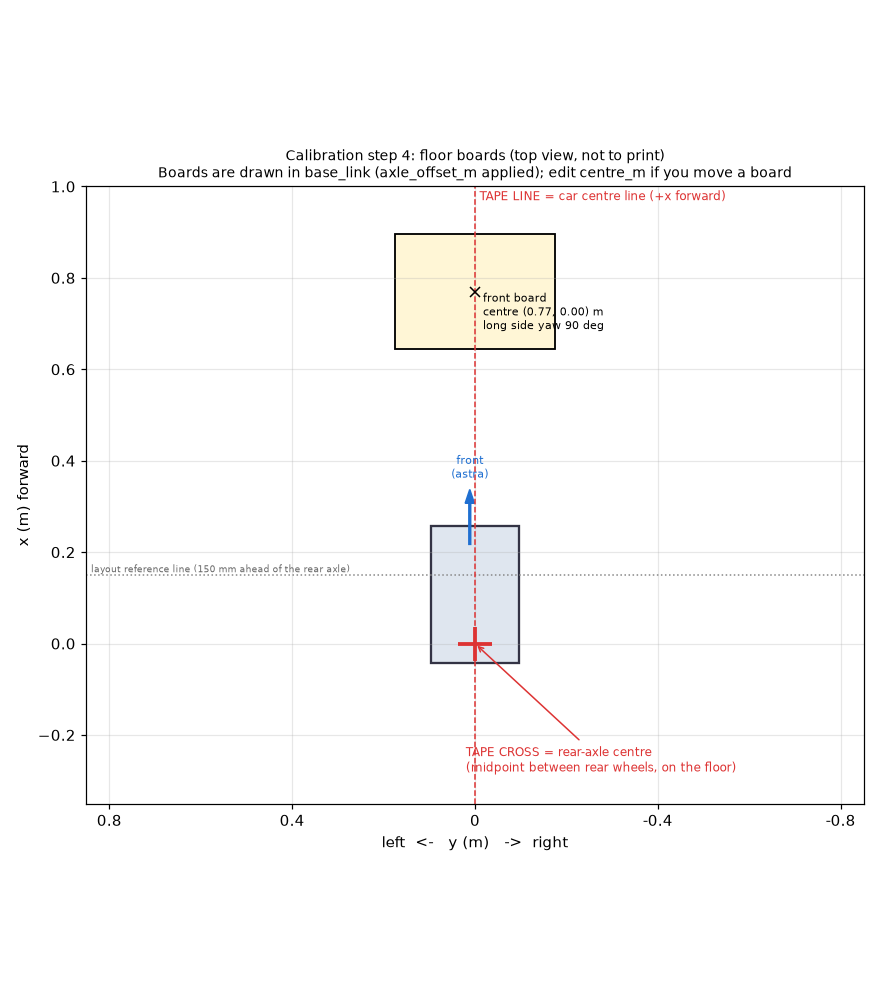
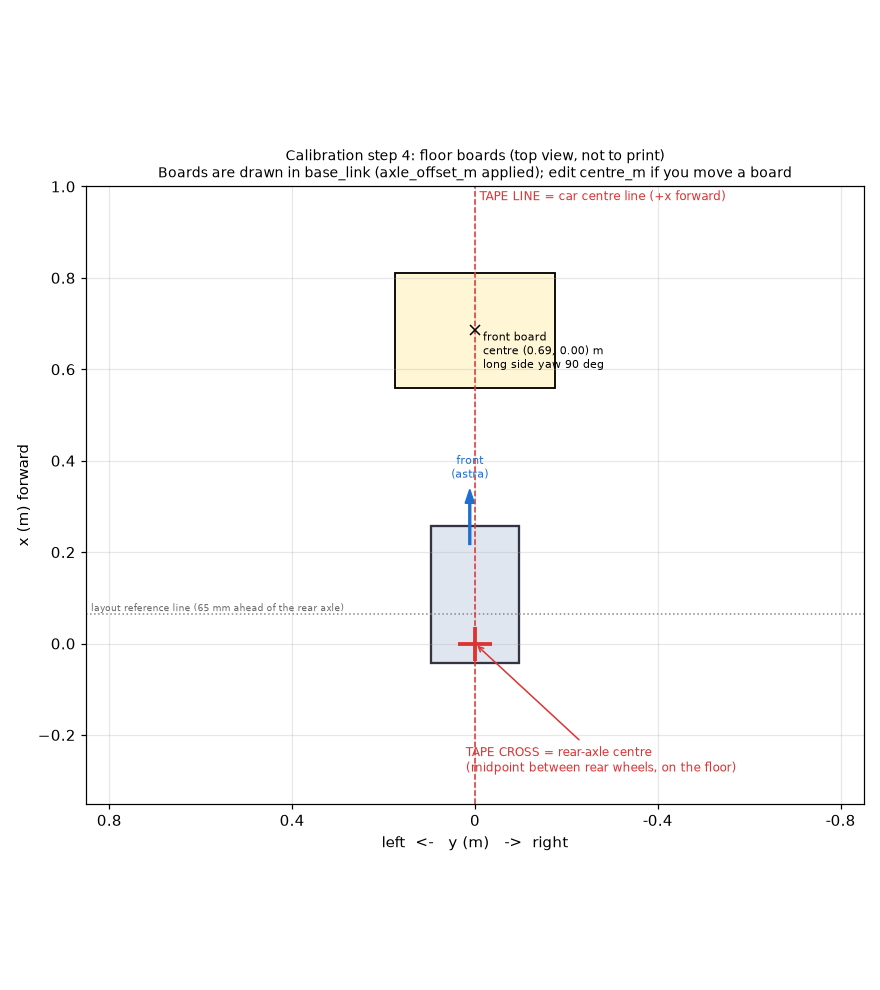
Step 4 axle offset 0.065 (0.150 was not detected); step 6 delete-run buttons
Step 4: target.axle_offset_m 0.150 -> 0.065 (owner moved the car forward on the sheet; front board
base_link x 0.685). Sheet regenerated (470 x 952 mm, 24 in roll), tests/docs/BACKLOG #54 updated.

Step 6: delete_run / delete_all_runs ops (step_imu_odometry) with GUI Delete buttons and a confirm.
The newest run's live correction (ticks_per_meter, odom_reverse_polarity, imu_yaw_scale) is undone
while the live value is still the corrected one; an unsaved step result computed from the deleted
run is dropped (wizard_core invalidate_result). Refused while a measurement runs. BACKLOG #60.

Changed region(s): [[0.4295, 0.2121, 0.675, 0.3939], [0.1227, 0.6061, 0.3989, 0.6364]]

diff --git a/src/carbot_gui/web/tabs_calib.js b/src/carbot_gui/web/tabs_calib.js
@@ -213,6 +213,7 @@ TABS.calstep = {
     /* ---- one delegated click handler for every button on the page */
     el.addEventListener('click', async e => {
       const b = e.target.closest('[data-act]'); if (!b || b.disabled || busy) return;
+      if (b.dataset.confirm && !window.confirm(b.dataset.confirm)) return;
       let arg = b.dataset.arg || '';
       if (b.dataset.argfrom) {
         const fn = STEP_ARGS[b.dataset.argfrom];
@@ -604,21 +605,27 @@ STEP_PAGES.imu_odometry = st => {
       `<p class="muted" style="font-size:12px">${D.f(st.run.remaining_s, 0)} s left, ${st.run.samples} IMU messages. Nobody touches the car or the table.</p>`;
   } else liveHtml += '<div class="muted">Nothing is being measured. Use the buttons under Controls.</div>';
   const STAT = { PASS: ['pass', 'ok-t'], CORRECTED: ['corrected, verify', 'bad-t'], FAIL: ['fail', 'bad-t'], NO_DATA: ['no data', 'bad-t'] };
-  const runsTbl = (title, t, cols) => {
+  const noDel = running || !!a || !!busy;           /* runs cannot be deleted while something is measuring */
+  const delBtn = (test, index, label, all) => `<button class="btn" style="padding:0 6px;min-height:22px;font-size:12px" data-act="STEP" ` +
+    `data-arg="${Cal.esc(JSON.stringify(all ? { op: 'delete_all_runs', test } : { op: 'delete_run', test, index }))}" ` +
+    `data-confirm="${Cal.esc(all ? `Delete ALL ${test} runs?` : `Delete ${test} run ${index + 1}? A correction it made is undone only if it is the newest run.`)}" ` +
+    `${noDel ? 'disabled' : ''}>${label}</button>`;
+  const runsTbl = (title, t, cols, test) => {
     if (!t.runs || !t.runs.length) return `<h4 style="margin:12px 0 4px">${title}</h4><div class="muted">No run yet.</div>`;
     const off = t.n_runs - t.runs.length;
     const last = t.runs[t.runs.length - 1];
-    return `<h4 style="margin:12px 0 4px">${title} <small class="muted">${t.n_runs} run${t.n_runs > 1 ? 's' : ''}</small></h4>` +
-      `<table class="calruns"><tr><th>#</th>${cols.map(c => `<th class="r">${c[0]}</th>`).join('')}<th>Result</th></tr>` +
+    return `<h4 style="margin:12px 0 4px">${title} <small class="muted">${t.n_runs} run${t.n_runs > 1 ? 's' : ''}</small> ${delBtn(test, 0, 'Delete all', true)}</h4>` +
+      `<table class="calruns"><tr><th>#</th>${cols.map(c => `<th class="r">${c[0]}</th>`).join('')}<th>Result</th><th></th></tr>` +
       t.runs.map((r, i) => `<tr><td>${off + i + 1}</td>${cols.map(c => `<td class="r">${Cal.esc(c[1](r))}</td>`).join('')}` +
-        `<td class="${(STAT[r.status] || ['', 'muted'])[1]}">${Cal.esc((STAT[r.status] || [r.status])[0])}</td></tr>`).join('') + '</table>' +
+        `<td class="${(STAT[r.status] || ['', 'muted'])[1]}">${Cal.esc((STAT[r.status] || [r.status])[0])}</td>` +
+        `<td>${delBtn(test, r.index != null ? r.index : off + i, 'Delete', false)}</td></tr>`).join('') + '</table>' +
       (last.status !== 'PASS' && (last.why || last.fix) ? `<div class="calwhy">${last.why ? `<b>Why:</b> ${Cal.esc(last.why)}` : ''}${last.fix ? `<br><b>Fix:</b> ${Cal.esc(last.fix)}` : ''}</div>` : '') +
       (t.failed_runs >= lv.max_runs && last.status !== 'PASS' ? Cal.alert('bad', `${t.failed_runs} runs without a pass`, 'Something mechanical is off (wheel slipping, car not pushed straight, IMU loose). Check it before more runs.') : '');
   };
   liveHtml += runsTbl('Distance runs', dist, [['Odom', r => r.odom_m != null ? D.f(r.odom_m, 3) + ' m' : '—'],
-    ['Error', r => r.error_pct != null ? (r.error_pct > 0 ? '+' : '') + D.f(r.error_pct, 1) + ' %' : '—'], ['ticks/m', r => D.f(r.ticks_per_meter, 1)]]);
+    ['Error', r => r.error_pct != null ? (r.error_pct > 0 ? '+' : '') + D.f(r.error_pct, 1) + ' %' : '—'], ['ticks/m', r => D.f(r.ticks_per_meter, 1)]], 'distance');
   if (lv.spin_test) liveHtml += runsTbl('Spins', spin, [['IMU', r => (r.yaw_at_scale_deg != null ? D.f(r.yaw_at_scale_deg, 1) : D.f(r.yaw_change_deg, 1)) + '°'],
-    ['Error', r => r.error_pct != null ? (r.error_pct > 0 ? '+' : '') + D.f(r.error_pct, 1) + ' %' : '—'], ['scale', r => D.f(r.imu_yaw_scale, 4)]]);
+    ['Error', r => r.error_pct != null ? (r.error_pct > 0 ? '+' : '') + D.f(r.error_pct, 1) + ' %' : '—'], ['scale', r => D.f(r.imu_yaw_scale, 4)]], 'spin');
   const lim = lv.limits || {};
   liveHtml += `<p class="muted" style="font-size:12px;margin:8px 0 0">Limits: distance ±${D.f(lim.distance_pct, 1)} %, spin ±${D.f(lim.spin_pct, 1)} %, drift ${D.f(lim.drift_deg_per_min, 1)} °/min. ` +
     'A corrected run never passes: the next run with the new value verifies it.</p></div>';

diff --git a/src/carbot_ops/carbot_ops/step_imu_odometry.py b/src/carbot_ops/carbot_ops/step_imu_odometry.py
@@ -204,7 +204,62 @@ class ImuOdometryStep(StepImpl):
             if self.active['phase'] != 'measuring':
                 return {'ok': False, 'message': 'Wait: the IMU scale is still being set for the spin.'}
             return self._distance_stop(now) if test == 'distance' else self._spin_stop(now)
+        if op in ('delete_run', 'delete_all_runs'):
+            return self._delete(op, args)
         return {'ok': False, 'message': f'Unknown operation {op!r}'}
+
+    @staticmethod
+    def _fmt(v) -> str:
+        return ('on' if v else 'off') if isinstance(v, bool) else f'{v:g}'
+
+    # ------------------------------------------------------------------ delete runs
+    def _delete(self, op: str, args: Dict) -> Dict:
+        """Remove one run (delete_run: test + index) or every run of a test (delete_all_runs: test) from the list.
+        The pass state of a test is its LATEST run, so deleting a bad measurement (car pushed crooked) puts the
+        previous one back in charge. Corrections a run already applied LIVE on servo_controller are undone only
+        for the newest run of its test while the live value is still the corrected one; otherwise they stay and
+        the message says so (press Re-read, then measure again)."""
+        if self.active is not None or self.t0 is not None:
+            return {'ok': False, 'message': 'A measurement is in progress: Stop or Abort it first, then delete runs.'}
+        if self.busy:
+            return {'ok': False, 'message': f'Wait: {self.busy}.'}
+        test = str(args.get('test', ''))
+        if test not in self.runs:
+            return {'ok': False, 'message': f'Delete which runs? test must be one of {sorted(self.runs)}, not {test!r}.'}
+        runs = self.runs[test]
+        if not runs:
+            return {'ok': False, 'message': f'There are no {test} runs to delete.'}
+        if op == 'delete_all_runs':
+            n = len(runs)
+            self.runs[test] = []
+            return {'ok': True, 'invalidate_result': True,
+                    'message': f'Deleted all {n} {test} run{"s" if n > 1 else ""}. Values already set on {SERVO} were left '
+                               'as they are (press Re-read to see them); measure again.'}
+        try:
+            i = int(args['index'])
+        except (KeyError, TypeError, ValueError):
+            return {'ok': False, 'message': 'delete_run needs the index of the run.'}
+        if not 0 <= i < len(runs):
+            return {'ok': False, 'message': f'There is no {test} run number {i + 1}.'}
+        run = runs.pop(i)
+        note = ''
+        corrected = run.get('corrected') or {}
+        if corrected and i == len(runs) and self.values is not None:       # it was the newest run of this test
+            before = {}
+            if 'ticks_per_meter' in corrected:
+                before['ticks_per_meter'] = run['ticks_per_meter']
+            if 'odom_reverse_polarity' in corrected:
+                before['odom_reverse_polarity'] = run['reverse_polarity']
+            if 'imu_yaw_scale' in corrected:
+                before['imu_yaw_scale'] = run['imu_yaw_scale']
+            if before and all(self.values.get(k) == v for k, v in corrected.items()):
+                self._set(before, 'undo the correction of a deleted run')
+                note = ' Its correction was undone: ' + ', '.join(f'{k} back to {self._fmt(v)}' for k, v in before.items()) + '.'
+            elif before:
+                note = f' Its correction ({", ".join(corrected)}) was left on {SERVO}: the live value has changed since.'
+        elif corrected:
+            note = f' Its correction ({", ".join(corrected)}) stays on {SERVO}: only the newest run can be undone.'
+        return {'ok': True, 'invalidate_result': True, 'message': f'Deleted {test} run {i + 1}.{note}'}
 
     def _abort(self) -> Dict:
         a, self.active = self.active, None
@@ -439,7 +494,9 @@ class ImuOdometryStep(StepImpl):
         tests = {}
         for t in ('distance', 'spin'):
             runs = self.runs[t]
-            tests[t] = {'status': runs[-1]['status'] if runs else 'NOT_RUN', 'runs': runs[-self.max_runs:],
+            off = len(runs) - len(runs[-self.max_runs:])
+            tests[t] = {'status': runs[-1]['status'] if runs else 'NOT_RUN',
+                        'runs': [dict(r, index=off + k) for k, r in enumerate(runs[-self.max_runs:])],
                         'n_runs': len(runs), 'failed_runs': sum(1 for r in runs if r['status'] != 'PASS')}
         return {'values': self.values, 'busy': self.busy, 'link_error': self.link_error, 'active': act,
                 'tests': tests, 'spin_test': self.spin_test, 'straight_run_m': self.true_m,

diff --git a/src/carbot_ops/test/test_step_imu_odometry.py b/src/carbot_ops/test/test_step_imu_odometry.py
@@ -418,3 +418,89 @@ def test_recorder_ignores_samples_before_settle():
     rec.on_imu(1.5, -90.0)
     assert rec.yaw == pytest.approx(10.0)
     assert math.isclose(wrap_deg(190.0), -170.0)
+
+
+# --------------------------------------------------------------------------- delete runs
+def delete(step, test, index=None):
+    a = {'op': 'delete_run', 'test': test}
+    if index is not None:
+        a['index'] = index
+    return step.handle('delete_run', a, {})
+
+
+def test_delete_newest_corrected_run_undoes_its_correction():
+    step, car, link, _ = make(tpm_true=1000.0)                      # odom reads 5 % long at 1050: a correction follows
+    r = distance_run(step, car)
+    assert r['status'] == 'CORRECTED' and link.values['ticks_per_meter'] != 1050.0
+    out = delete(step, 'distance', 0)
+    assert out['ok'] and out['invalidate_result'] and 'ticks_per_meter back to 1050' in out['message']
+    assert link.values['ticks_per_meter'] == 1050.0 and step.runs['distance'] == []
+    assert step.live({})['tests']['distance']['status'] == 'NOT_RUN'
+
+
+def test_delete_older_run_leaves_the_live_value_and_says_so():
+    step, car, link, _ = make(tpm_true=1000.0)
+    distance_run(step, car)                                         # CORRECTED (first)
+    second = distance_run(step, car)                                # verify run
+    assert second['status'] == 'PASS'
+    out = delete(step, 'distance', 0)                               # delete the OLD corrected run, not the newest
+    assert out['ok'] and 'stays on' in out['message']
+    assert link.values['ticks_per_meter'] != 1050.0 and len(step.runs['distance']) == 1
+    assert step.live({})['tests']['distance']['status'] == 'PASS'   # the verify run is in charge again
+
+
+def test_delete_when_live_value_changed_since_keeps_it():
+    step, car, link, _ = make(tpm_true=1000.0)
+    distance_run(step, car)
+    link.values['ticks_per_meter'] = step.values['ticks_per_meter'] = 999.0      # set by hand afterwards + re-read
+    out = delete(step, 'distance', 0)
+    assert out['ok'] and 'left on' in out['message'] and link.values['ticks_per_meter'] == 999.0
+
+
+def test_delete_spin_run_restores_the_scale():
+    step, car, link, _ = make(imu_gain=1.1)
+    r = spin(step, car)
+    assert r['status'] == 'CORRECTED' and link.values['imu_yaw_scale'] != 1.0
+    out = delete(step, 'spin', 0)
+    assert out['ok'] and link.values['imu_yaw_scale'] == 1.0
+
+
+def test_delete_refused_while_measuring_and_for_bad_input():
+    step, car, link, _ = make()
+    step.live({})
+    assert not delete(step, 'distance', 0)['ok']                    # nothing to delete
+    op(step, 'distance_start')
+    out = delete(step, 'distance', 0)
+    assert not out['ok'] and 'in progress' in out['message']
+    op(step, 'abort')
+    distance_run(step, car)
+    assert not delete(step, 'nope', 0)['ok'] and not delete(step, 'distance', 7)['ok'] and not delete(step, 'distance')['ok']
+
+
+def test_delete_all_runs_and_live_index():
+    step, car, link, _ = make(tpm_true=1000.0)
+    distance_run(step, car)
+    distance_run(step, car)
+    live = step.live({})['tests']['distance']
+    assert [r['index'] for r in live['runs']] == [0, 1]
+    out = step.handle('delete_all_runs', {'op': 'delete_all_runs', 'test': 'distance'}, {})
+    assert out['ok'] and 'Values already set' in out['message'] and step.runs['distance'] == []
+
+
+def test_deleting_a_run_drops_an_unsaved_step_result(tmp_path):
+    step, car, link, clock = make(tpm_true=1100.0)
+    w = _wizard(tmp_path, step, clock)
+    _pass_earlier(tmp_path, w)
+    distance_run(step, car)                                         # CORRECTED
+    distance_run(step, car)                                         # PASS
+    spin(step, car)
+    assert w.action('imu_odometry', 'RUN', '', {})['ok']
+    done = None
+    while done is None:
+        car.wait(1.0)
+        done = w.tick({})
+    assert done.status == 'PASS' and done.unsaved
+    r = w.action('imu_odometry', 'STEP', json.dumps({'op': 'delete_run', 'test': 'distance', 'index': 1}), {})
+    assert r['ok'], r
+    slot = next(x for x in w.slots if x.id == 'imu_odometry')
+    assert slot.status == 'PENDING' and slot.result is None and slot.unsaved is False

diff --git a/tools/calibration/test_make_boards.py b/tools/calibration/test_make_boards.py
@@ -65,7 +65,7 @@ def test_layout_matches_floorboard_geometry():
 
 def test_axle_offset_moves_the_boards_forward_of_the_axle_line():
     off = float(TARGET['axle_offset_m'])
-    assert off == 0.150                                       # 2026-09-24: rear axle 150 mm further back
+    assert off == 0.065                                       # 2026-09-24: rear axle 65 mm further back (150 mm was not detected)
     for raw, eff in zip(TARGET['boards'], BOARDS):
         assert eff['centre_m'][0] == pytest.approx(raw['centre_m'][0] + off)
         assert eff['centre_m'][1] == raw['centre_m'][1] and eff['yaw_deg'] == raw['yaw_deg']
@@ -84,7 +84,7 @@ def test_axle_offset_zero_gives_the_layout_as_first_printed():
 
 
 def test_front_board_is_fully_inside_the_front_camera_view():
-    """The reason for the 150 mm axle move: at 0.62 the near corners were outside the picture."""
+    """The reason for the axle move: at 0.62 the near corners were outside the picture."""
     from carbot_perception.camera_model import Intrinsics, Mount, project_ground
     root = os.path.join(REPO, 'src', 'carbot_bringup', 'config', 'data')
     cams = yaml.safe_load(open(os.path.join(root, 'cameras.yaml'), encoding='utf-8'))
@@ -123,7 +123,7 @@ def test_overlapping_boards_are_rejected():
 
 def test_roll_fit():
     assert mb.roll_fit(1310, 940) == 1067
-    assert mb.roll_fit(470, 1037) == 610                      # the front-board-only sheet: a 24 in roll
+    assert mb.roll_fit(470, 952) == 610                       # the front-board-only sheet: a 24 in roll
     assert mb.roll_fit(1310, 880) == 914
     assert mb.roll_fit(1300, 1200) is None
 

diff --git a/src/carbot_common/test/test_floor_board_dicts.py b/src/carbot_common/test/test_floor_board_dicts.py
@@ -10,14 +10,14 @@ sys.path.insert(0, os.path.dirname(HERE))
 
 from carbot_common.calib_tools import floor_board_dicts  # noqa: E402
 
-TARGET = {'type': 'floor_markers', 'axle_offset_m': 0.150,
+TARGET = {'type': 'floor_markers', 'axle_offset_m': 0.065,
           'boards': [{'name': 'front', 'roles': ['front'], 'inner_corners': [6, 4], 'square_m': 0.05,
                       'centre_m': [0.62, 0.0], 'yaw_deg': 90.0}]}
 
 
 def test_boards_move_forward_by_the_axle_offset_only():
     (b,) = floor_board_dicts(TARGET)
-    assert b['centre_m'] == [0.77, 0.0]                       # 0.62 + 0.150
+    assert b['centre_m'] == [0.685, 0.0]                      # 0.62 + 0.065
     assert b['sheet_centre_m'] == [0.62, 0.0]
     assert b['yaw_deg'] == 90.0 and b['name'] == 'front' and b['inner_corners'] == [6, 4]
     assert TARGET['boards'][0]['centre_m'] == [0.62, 0.0]     # the YAML dict is not modified
@@ -43,4 +43,4 @@ def test_shipped_yaml_has_the_offset_and_the_front_board():
     steps = {s['id']: s for s in yaml.safe_load(open(path, encoding='utf-8'))['steps']}
     boards = floor_board_dicts(steps['extrinsics_ipm']['target'])
     assert [b['name'] for b in boards] == ['front']
-    assert boards[0]['centre_m'] == [0.77, 0.0]
+    assert boards[0]['centre_m'] == [0.685, 0.0]

diff --git a/src/carbot_perception/carbot_perception/calib_extrinsics.py b/src/carbot_perception/carbot_perception/calib_extrinsics.py
@@ -10,7 +10,7 @@ docs/images/calib_mat.png): tape a cross on the floor where the REAR-AXLE
 CENTRE goes and a straight line for the car's centre line. Lay each floor
 board flat at its position in base_link = centre_m + target.axle_offset_m in x
 (carbot_common.calib_tools.floor_board_dicts; the rear axle sits axle_offset_m
-BEHIND the layout's reference line, 0.150 m since 2026-09-24), measured from the
+BEHIND the layout's reference line, 0.065 m since 2026-09-24 (0.150 was not detected)), measured from the
 cross along / across the line, with its long side along yaw_deg.
 If a board is not fully visible in its camera, move it, MEASURE the new
 centre and edit centre_m - the measurement is what matters, not the default.

diff --git a/src/carbot_ops/carbot_ops/wizard_core.py b/src/carbot_ops/carbot_ops/wizard_core.py
@@ -445,6 +445,9 @@ class Wizard:
         except Exception as e:  # noqa: BLE001  a page operation must not stop the wizard
             return result(False, f'{a["op"]} failed: {e!r}')
         self.current = s.index
+        if r.get('ok') and r.get('invalidate_result') and s.unsaved and s.status in ('PASS', 'FAIL'):
+            # the op removed data an unsaved result was computed from (e.g. step 6 deleted a run)
+            s.status, s.result, s.unsaved = s.saved_status or ('PENDING' if s.required else 'SKIPPED_OPTIONAL'), None, False
         return result(bool(r.get('ok')), str(r.get('message', '')))
 
     def _a_cancel(self, s: Slot, arg, inputs) -> Dict:

diff --git a/docs/BACKLOG.md b/docs/BACKLOG.md
@@ -58,12 +58,13 @@ Status: TODO / DOING / DONE (phase) / WAITING (on the team).
 | 51 | `race.launch.py` measured on risabot1 (2026-09-24, idle, unarmed, no session, GUI open in 1-2 tabs, `tools/measure_load.py --seconds 120`): **97 % of the machine, load 18-26, SoC 88.4 C max, DDR 87.7 C**, CPU clock stays 1500 MHz. `/carbot/safety/status` arrives at 19.4 Hz, **max gap 90 ms vs command_owner.safety_max_age_s 0.1 s** (that is 10 ms from SAFETY STOP). Top: gui_server 64, recovery_planner 57, bpu_detector 56, system_monitor 52, parking_planner 47, local_planner 45, safety_monitor 43, command_owner 43 | 8 / on site | TODO | The race stack alone saturates the RDK, so calibrating under it (as intended) and racing on it both risk stale safety status. Done: safety status = change + 25 Hz heartbeat (`control.yaml safety_monitor.status_publish_hz`, `publish_due` in safety_core, tested). Still open: bpu_detector 56 % runs at 10 Hz though traffic-light/boom-gate triggers are disabled (#15/#16) - lower `detectors.yaml rate_hz` needs `debounce_frames` x period < `state_expiry_s` (3 x 0.2 s = 0.6 > 0.4); system_monitor 52 % (psutil process scans); /odom stays 12 subscribers (EvidenceInputs pairs local_pose with odom stamps, cannot decimate); single-threaded executors and mode-gated subscriptions not done (safety path, needs car test) |
 | 52 | bpu_detector: only traffic light, boom gate, speed bump drive anything | 6 / on site | DONE on risabot1 (2026-09-24) | (a) `detector_core.decode_level` clears a lowest-threshold test on the raw logits first, then argmax/sigmoid only on the survivors (same output, tested against the old code; ~12 % faster on a laptop). (b) `detectors.yaml class_map`: the 8 INFO-only signs are `""` (ignored); old list kept as a comment. Measured on risabot1: per-frame `inference_ms` 96/61/41 -> 36/32/28, process CPU 54.9 -> 50.0 %. `rate_hz` 10 unchanged (debounce 3 x 0.1 s < `state_expiry_s` 0.4). SoC reached 91.9 C during this run: watch temperature (#46). speed_bump_sign is still `""` (untrained) |
 | 53 | `carbot_planning/test/test_mission.py::test_closed_loop_full_mission` is load sensitive | 8 | TODO | 2026-09-24 (Windows laptop): failed (`MISSION COMPLETE` not reached) in a full ~50 min carbot_planning run made while the laptop was busy; the same single test passed in 59 s on untouched HEAD, then later timed out (>200 s) on untouched HEAD, and on our branch (>120 s). `sim_core` imports only `*_core` modules (not local_planner / ros_util, the two planning files we changed), and `route_core.py` has a wall-clock `time_budget_s` (`_time.monotonic()`), so a slow machine can truncate the search. Cause not proven. Re-run it alone on an idle machine / the RDK before trusting or blaming it |
-| 54 | Step 4 front board only, rear axle 150 mm further back: `calibration_steps.yaml` step 4 `target.axle_offset_m: 0.150` (boards = [front], base_link x 0.77); `carbot_common.calib_tools.floor_board_dicts` applies it | 8 / on site | TODO (not tried on the car) | Sheet is now 470 x 1037 mm (24 in roll, too long for A1): reprint `docs/calibration/floor_sheet.pdf`. All 4 outer corners are in the front picture (2 of 4 at x 0.62), but the board is seen at a grazing angle: `calib_core.detect_chessboard` fails on synthetic renders at 320x240 always and at 640x480 flakily at x 0.70-0.75 (works to ~0.68), so `test_extrinsics_cli_offline` is xfail(strict). Decision 2026-09-24: capture at 640x480 (#55). Still open: make detect_chessboard more tolerant, or turn the board (yaw 0, layout centre_m x 0.50-0.53) if it still fails on the car. `calib_extrinsics.py` default `--roles` still lists left_rear/right_rear (goes away with the side-camera removal) |  **Update 2026-09-24:** real frame from risabot5 (640x480, board at x 0.77, rows 10-20 px apart, lens distortion visible) was NOT found by `detect_chessboard`; fixed with a vertical-stretch fallback (`calibration_steps.yaml extrinsics_ipm.target.detect_vertical_stretch: [2.0, 2.0, 2.0, 1.5, 2.5, 3.0]`, `calib_core.detect_chessboard(stretch=...)`). cv2.findChessboardCornersSB is not repeatable (19/20 at x2.0 on the same frame), hence the repeats. Real frame kept as test data (`carbot_perception/test/data/step4_front_640x480.png`); `test_extrinsics_cli_offline` no longer xfail. Untested end to end on the car (needs step 3 intrinsics at 640x480 first)
+| 54 | Step 4 front board only, rear axle 150 mm further back: `calibration_steps.yaml` step 4 `target.axle_offset_m: 0.150` (boards = [front], base_link x 0.77); `carbot_common.calib_tools.floor_board_dicts` applies it | 8 / on site | TODO (not tried on the car) | Sheet is now 470 x 1037 mm (24 in roll, too long for A1): reprint `docs/calibration/floor_sheet.pdf`. All 4 outer corners are in the front picture (2 of 4 at x 0.62), but the board is seen at a grazing angle: `calib_core.detect_chessboard` fails on synthetic renders at 320x240 always and at 640x480 flakily at x 0.70-0.75 (works to ~0.68), so `test_extrinsics_cli_offline` is xfail(strict). Decision 2026-09-24: capture at 640x480 (#55). Still open: make detect_chessboard more tolerant, or turn the board (yaw 0, layout centre_m x 0.50-0.53) if it still fails on the car. `calib_extrinsics.py` default `--roles` still lists left_rear/right_rear (goes away with the side-camera removal) |  **Update 2026-09-24:** real frame from risabot5 (640x480, board at x 0.77, rows 10-20 px apart, lens distortion visible) was NOT found by `detect_chessboard`; fixed with a vertical-stretch fallback (`calibration_steps.yaml extrinsics_ipm.target.detect_vertical_stretch: [2.0, 2.0, 2.0, 1.5, 2.5, 3.0]`, `calib_core.detect_chessboard(stretch=...)`). cv2.findChessboardCornersSB is not repeatable (19/20 at x2.0 on the same frame), hence the repeats. Real frame kept as test data (`carbot_perception/test/data/step4_front_640x480.png`); `test_extrinsics_cli_offline` no longer xfail. Untested end to end on the car (needs step 3 intrinsics at 640x480 first)  **Update 2026-09-24 (owner, on the car):** at `axle_offset_m: 0.150` the front board was NOT detected; the owner pushed the car forward so the rear axle is 65 mm behind the reference line: `axle_offset_m: 0.065` (front board base_link x 0.685; sheet regenerated: 470 x 952 mm, still a 24 in roll).
 | 55 | Astra 640x480 @ 15 fps (`cameras.yaml sensors.astra` width/height/fps; was 320x240) for calibration AND driving | 8 / on site | DONE on risabot5 config, steps 3-4 TO REDO | Measured on risabot5, front-only stack: astra_camera_container 12 -> 24 %, road_perception 38.7 -> 52.5 %, bpu_detector 38.4 -> 41.6 %, load 19 -> 22-25, SoC 66.0 -> 66.3 C, stream 15.0 Hz. Cost ~ +26 points of one core on a saturated RDK (#47-#51). Resolution is detail, NOT field of view (Astra hfov ~60 deg): it does not widen the view in tight corners. Intrinsics and extrinsics belong to the size they were captured at: redo step 3 (and 4) at 640x480; old 320x240 sessions no longer match. Re-measure the race stack at both sizes after the CPU work is merged |
 | 56 | Try `local_pose.heading_lead_s` 0.30-0.35 on the car (cancels servo_controller's IMU EMA lag; default 0 = V4) | 8 / on site | TODO (sandbox only) | `control_servo/servo_controller.py` runs an EMA `alpha = 0.15` on the IMU yaw (~0.28 s): in a turn `/imu/rpy` trails the real heading by yaw_rate x tau (25 deg/s -> ~7 deg). Sandbox (`tools/sandbox/run_icp_eval.py`): map-matched local error 15.3 -> 3.7 cm rms, sideways 8.7 -> 1.9 cm, heading 7.1 -> 2.1 deg at 0.35; robust to a 15 % `/odom` yaw-rate error. Verify on the car with a recorded run (`run_localization.py --bag`), then set it in `localization.yaml` / a calibration overlay. `docs/LOCALIZATION_MEMORY.md` |
 | 57 | ICP against accumulated camera edges (`icp_core.py`, `local_pose.icp.*`) is built and tested offline but stays OFF | 8 | DONE as experiment (off) | Sandbox: 3-6 % better than map matching at best, neutral or worse once #54 is on or with noisy edges; cannot fix along-track (wheel scale) error; ~10-16 % of an RDK core while enabled (estimate). Enable only for an experiment: `icp.enabled: true`, watch `icp acc/att` in the local_pose status. Numbers and limits: `docs/LOCALIZATION_MEMORY.md` |
 | 58 | Along-track local error (2 % wheel scale = ~12 cm rms per lap in the sandbox) is not observable from lane edges | 8 / on site | TODO | Only landmarks fix it (stop line, corners, roundabout). Check the real encoder scale in step 6 (IMU + odometry) and consider a landmark-based along-track update in block 05 (needs the team: V4 has none) |
 | 59 | Step 4 stalls on the car (owner report 2026-09-24, page shows 'waiting for camera pictures' / 'solving camera mounts', still worded for several cameras) | 8 / on site | DOING | Wizard text fixed on the laptop (steps 2-4 say front camera only, step 4 says the solve takes 10-40 s on the RDK). The solver itself works on the real 640x480 frame offline (ground rms 10.2 mm PASS, mount x 0.229 y 0.015 z 0.080 yaw 1.3 pitch_down 3.3 roll 1.5, CAD delta 1.8 cm / 2.1 deg; it only failed because step 3 intrinsics were missing). New guard: `step_extrinsics_ipm.start()` refuses intrinsics captured at another image size than `cameras.yaml sensors.astra` (e.g. old 320x240) with a clear message. Still to check on the car: exact page message, frame tap under the saturated CPU (`capture_timeout_s: 20`), solve time on the RDK |  **Found on risabot5 10:30:** the wizard auto-resumed session `20260924_013152` (started 9 h earlier, `resume_max_age_h: 12`): step 3 showed PASS with intrinsics for **320x240** (rms 0.256 px) while the camera now runs 640x480, and the session's own `data/cameras.yaml` copy still had the old Astra settings. Guards added: step 3 `keep_data` refuses intrinsics for another size (StepRefused), step 4 `_solve` compares the intrinsics with the REAL picture size. Open hazard: race/calibrate launches read the ACTIVE session's `cameras.yaml` copy, so a stale copy would launch the Astra at its old width/height/launch file: after the first Save of a new session check `data/cameras.yaml` (astra launch_package/launch_file/launch_args, width/height/fps). Workaround used: `resume_max_age_h: 0.0` (always a new session) on the car for the recalibration
+| 60 | Step 6: buttons to delete runs (`delete_run` per run, `delete_all_runs` per test; GUI Delete buttons with a confirm) | 8 | DONE (untested in a browser / on the car) | A run that was measured badly (car pushed crooked) no longer has to stay: the pass state is the LATEST run, so deleting it puts the previous one back in charge, and an unsaved step result computed from it is dropped (`invalidate_result` in `wizard_core._a_step`). A correction the run applied LIVE on servo_controller (ticks_per_meter, odom_reverse_polarity, imu_yaw_scale) is undone only when it is the newest run of its test and the live value is still the corrected one; otherwise it stays and the message says so (press Re-read). Refused while a measurement runs. `tabs_calib.js` node --check only |
 
 ## How to add a request
 Tell Claude in any chat, or add a row here yourself (next number, phase if known, status TODO).

diff --git a/docs/PHASES.md b/docs/PHASES.md
@@ -106,16 +106,16 @@ never rename silently.
   the car outline, centre line and rear-axle line for placing the car. Tests:
   `python3 -m pytest -q tools/calibration` (rasterises the layout and the PDF and re-detects
   every board against `FloorBoard.ground_points`).
-* **Step 4 = front camera only, rear axle 150 mm further back (2026-09-24)**: the side cameras
+* **Step 4 = front camera only, rear axle 65 mm further back (2026-09-24; first tried 150 mm, the board was not detected there)**: the side cameras
   are gone, so `calibration_steps.yaml` step 4 `target.boards` holds ONE board (`front`, yaw 90,
   6x4 inner corners, 50 mm squares; the left/right entries are kept as a comment). New key
-  `target.axle_offset_m: 0.150`: the car's rear axle sits 150 mm BEHIND the layout's reference line
+  `target.axle_offset_m: 0.065`: the car's rear axle sits 65 mm BEHIND the layout's reference line
   because at `centre_m` x 0.62 the front camera lost the near corners of the board (2 of 4 outer
   corners outside the 320x240 picture). `centre_m` stays the board position on the layout;
   `carbot_common.calib_tools.floor_board_dicts` turns it into base_link (x + `axle_offset_m`,
-  so the front board is at x 0.77) for the solver (`calib_extrinsics`), `make_boards.py` and
+  so the front board is at x 0.685) for the solver (`calib_extrinsics`), `make_boards.py` and
   `draw_mat.py`. A missing key is an error. `axle_offset_m: 0.0` gives the layout as first printed.
-  The front-board-only sheet is 470 x 1037 mm (fits a 610 mm / 24 in roll, 470 mm across) and must
+  The front-board-only sheet is 470 x 952 mm (fits a 610 mm / 24 in roll, 470 mm across) and must
   be reprinted: the board keeps its printed shape, only the axle line / car outline move relative
   to it. Checked offline, not on the car: all 24 inner and 4 outer corners project inside the front
   camera picture (u 55..280, v 146..168 of 320x240, hfov 60 deg, mount z 0.0935 m, pitch 2.5 deg).
